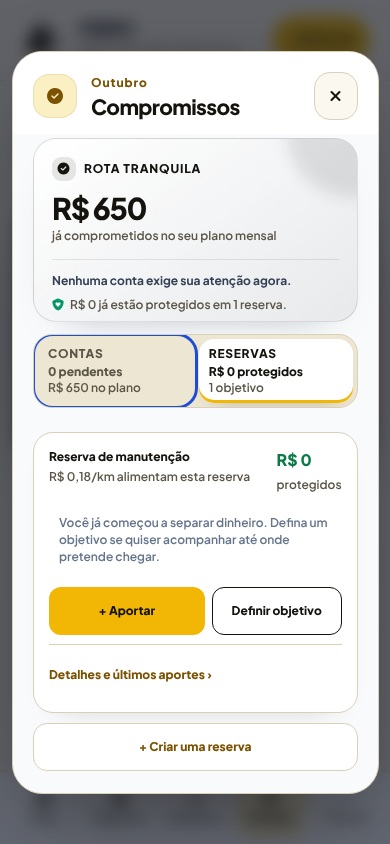
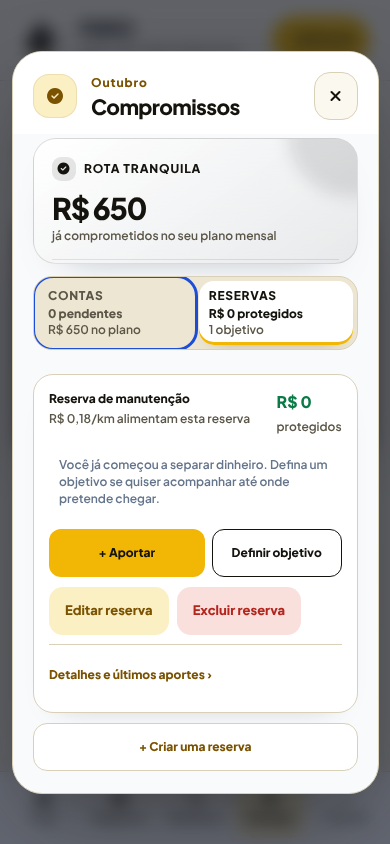
Decisão e vocabulário de editar com desfazer; evidências de QA
Claude-Session: https://claude.ai/code/session_01CPX7m46cRthfLWuFdbhywq

Changed region(s): [[0.0615, 0.3081, 0.9231, 0.7701], [0.8615, 0.6469, 0.8923, 0.6777], [0.8308, 0.6777, 0.8615, 0.7085]]

diff --git a/docs/decisoes/editar-com-desfazer.md b/docs/decisoes/editar-com-desfazer.md
@@ -1,0 +1,35 @@
+# Editar com desfazer (fatia F6)
+
+Origem: auditoria `docs/auditorias/fluxos-2026-10-20.md`, J5 e J7.
+
+## Decisões
+
+1. **Um editor só para contas e reservas.** Todo "Editar" chama `FaroEdit.editCost(id)` (faro-finance.js), que abre o editor completo `costModal` (nome, finalidade, cobrança, valor, vencimento). A reserva é uma conta com finalidade "reserva", então usa o mesmo editor. A lista antiga continua lá, mas deixa de ser o único lugar.
+2. **"Editar" à vista em cada item.** Na Central de Compromissos, cada conta tem um botão "Editar" na própria linha, sem precisar abrir nada antes. A nova seção "Suas contas a pagar" lista TODAS as contas, inclusive as sem vencimento (antes só existiam na lista escondida), cada uma com "Editar" e "Excluir".
+3. **Reserva: ações separadas.** Na reserva há "Editar reserva" e "Excluir reserva"; dentro dos detalhes, cada depósito tem "Remover aporte" (antes era só "Remover", e não ficava claro o que saía).
+4. **Sem confirm()/alert() do navegador.** Um ouvinte em faro-finance.js intercepta os botões de excluir do app (dia, conta, reserva, aporte, alerta) e "Restaurar parâmetros", e mostra uma folha inferior com a marca (`FaroInteractions.ask`). Com o "sim", o FARO roda a ação ORIGINAL do app (mesmo caminho de gravação, `app.save()`), sem tocar app.js nem a matemática.
+5. **Desfazer por 8 s.** Antes de excluir ou salvar uma alteração, o FARO guarda uma cópia do estado. A barra "Desfazer" (`FaroInteractions.showUndo`) devolve só as partes que mudaram e grava pelo mesmo `app.save()`.
+6. **Modal atrás da Central: provado e corrigido.** No Chrome, tocar "Editar" na lista antiga abria o `costModal` (div com z-index) enquanto a Central estava aberta como `<dialog>` modal (camada superior): o ponto central do editor caía na Central, ou seja, invisível. Correção geral em faro-interactions.js: quando um modal antigo aparece com uma folha aberta, a folha sai de cena e volta sozinha quando o modal fecha. A barra "Desfazer" fica dentro da folha do topo, porque com um `<dialog>` modal aberto o resto da página fica inerte.
+
+## Vocabulário
+
+Escolha: **"conta a pagar"** para cada item que sai do bolso (aluguel, seguro, parcela); **"compromisso"** só para o conjunto (a Central "Compromissos" junta contas a pagar e reservas); **"reserva"** para dinheiro guardado e **"aporte"** para cada depósito numa reserva.
+
+Palavras trocadas nesta fatia (a F7 de vocabulário pode reaproveitar):
+
+| Antes | Agora |
+| --- | --- |
+| "Custo atualizado e meta recalculada." | "Conta atualizada. A meta foi recalculada." |
+| "Custo adicionado e meta recalculada." | "Conta adicionada. A meta foi recalculada." |
+| "+ Adicionar conta" | "+ Adicionar conta a pagar" |
+| "Remover" (aporte) | "Remover aporte" |
+| confirm "Excluir este registro?" | folha "Excluir este dia?" / "Excluir dia" |
+| confirm "Excluir “X”?" | folha "Excluir a conta “X”?" / "Excluir conta" ou "Excluir reserva" |
+| confirm "Excluir este item do radar local?" | folha "Excluir este alerta?" / "Excluir alerta" |
+| confirm "Restaurar meta, agenda…?" | folha "Restaurar parâmetros?" / "Restaurar parâmetros" |
+
+Ainda com o termo antigo (fora do escopo desta fatia, para a F7): título do `costModal` "Editar custo"/"Adicionar custo" e botões "EDITAR"/"EXCLUIR" da lista antiga (gerados por app.js, imutável); "+ CRIAR UMA RESERVA" em faro-reserves.js na área oculta.
+
+## Prova
+
+`tests/edit-undo-browser.test.cjs` (Chrome real, no `npm run check`): editar conta sem vencimento, editor visível (não atrás da Central) pelos dois caminhos, excluir + desfazer, editar/excluir reserva, remover aporte + desfazer, excluir dia + desfazer, nenhum confirm()/alert() nativo chamado.
